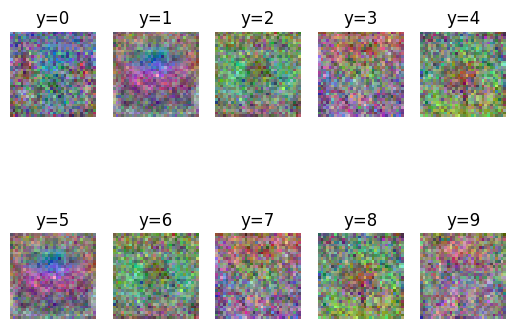
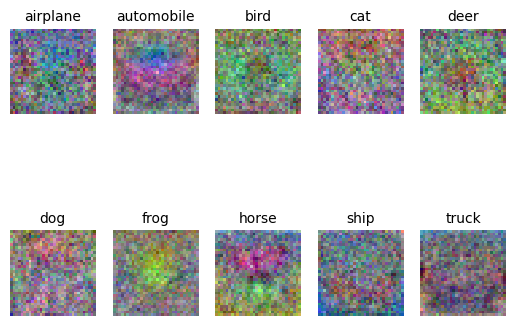
Added show class templates

diff --git a/assignment1/assignment1.py b/assignment1/assignment1.py
@@ -8,6 +8,7 @@ an L2 regularization term on the weight matrix."""
 import pickle
 import matplotlib.pyplot as plt
 import numpy as np
+import re
 
 
 __author__ = "Henrik Holm"
@@ -68,28 +69,20 @@ def unpickle(filename):
 	return file_dict
 
 
-def montage(W, title):
+def montage(W, title, labels):
 	""" Display the image for each label in W """
-	fig, ax = plt.subplots(2,5)
+	fig, ax = plt.subplots(2, 5)
 	for i in range(2):
 		for j in range(5):
-			im  = W[i+j,:].reshape(32,32,3, order='F')
+			im  = W[((i * 5) + j), :].reshape(32,32,3, order='F')
 			sim = (im-np.min(im[:]))/(np.max(im[:])-np.min(im[:]))
 			sim = sim.transpose(1,0,2)
 			ax[i][j].imshow(sim, interpolation='nearest')
-			ax[i][j].set_title("y="+str(5*i+j))
+			ax[i][j].set_title(str(labels[((5 * i) + j)]), fontsize=10)
 			ax[i][j].axis('off')
 
 	plt.savefig(f'plots/weights_{title}.png', bbox_inches="tight")
 	plt.show()
-
-	return
-
-
-def save_as_mat(data, name="model"):
-	""" Used to transfer a python model to matlab """
-	import scipy.io as sio
-	sio.savemat(name+'.mat',{name:b})
 
 	return
 
@@ -137,15 +130,12 @@ class SingleLayerNetwork():
 		""" Implement SoftMax using equations 1 and 2.
 			Each column of X corresponds to an image and it has size d x n. """
 		s = np.dot(self.W, X) + self.b
-		# Element-wise multiplication: @
-		# s = (self.W @ X) + self.b
 		# p has size K x n, where n is n of the input X.
 		p = self.soft_max(s)
 		return p
 
 	def soft_max(self, s):
 		""" Standard definition of the softmax function """
-		# Note-to-self: Maybe change to identity matrix
 		return np.exp(s) / np.sum(np.exp(s), axis=0)
 
 	def compute_cost(self, X, Y, our_lambda):
@@ -277,7 +267,7 @@ def main():
 	seed = 12345
 	np.random.seed(seed)
 	test_numerically = False
-	our_lambda = 0
+	our_lambda = 1.0
 	n_batch = 100
 	eta = 0.001
 	n_epochs = 40
@@ -301,9 +291,9 @@ def main():
 
 	if test_numerically:
 		print()
-		print("-------------------- Running gradient tests --------------------")
-		num_images = 2
-		num_pixels = 100
+		print("-------------------- Running gradient tests ---------------------")
+		num_images = 100
+		num_pixels = 3072
 		test_train, test_val, test_test = dict(), dict(), dict()
 
 		test_train['X'] = train_set['X'][:num_images, :num_pixels]
@@ -331,8 +321,8 @@ def main():
 		# From the assignment PDF: "If all these absolutes difference are small
 		# (<1e-6), then they have produced the same result.
 		# np.allclose(a, b, rtol=1e-05, atol=1e-08, equal_nan=False)[source]
-		print(np.allclose(grad_W, grad_W_num, atol=1e-07))
-		print(grad_W - grad_W_num)
+		print()
+		print(f'All close: {np.allclose(grad_W, grad_W_num, atol=1e-05)}')
 
 	print()
 	print("---------------------- Learning classifier ----------------------")
@@ -357,7 +347,8 @@ def main():
 			   label_A='training loss', label_B='validation loss',
 			   xlabel='epoch', ylabel='loss', title=title)
 
-	montage(clf.W, title)
+	labels = ['airplane', 'automobile', 'bird', 'cat', 'deer', 'dog', 'frog', 'horse', 'ship', 'truck']
+	montage(clf.W, title, labels)
 
 	print()
 
